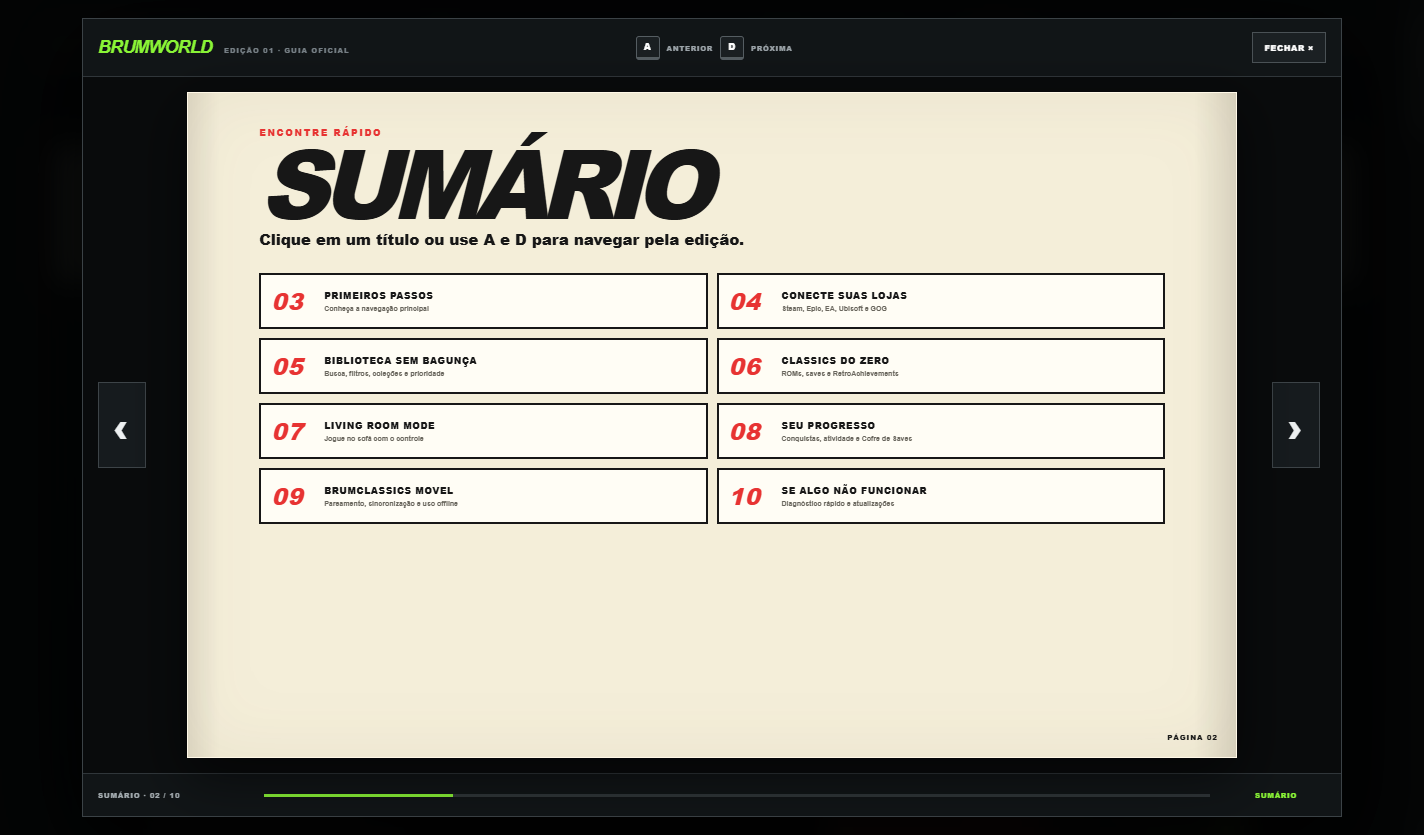
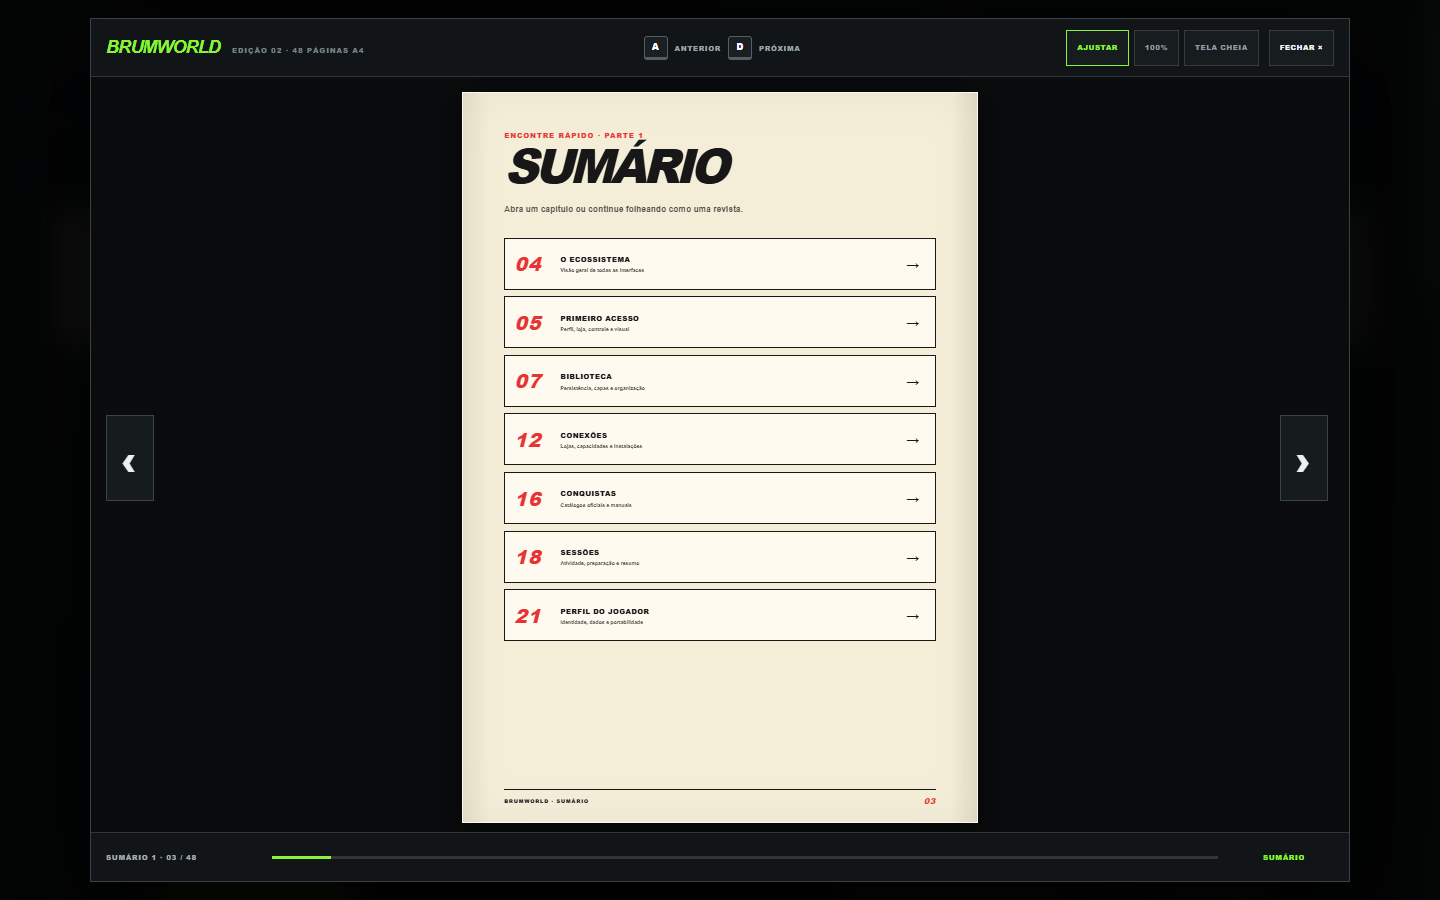
release: publish real-screen BRUMWORLD 1.74.3

diff --git a/CHANGELOG.md b/CHANGELOG.md
@@ -1,5 +1,16 @@
 # Histórico de versões
 
+## Launcher 1.74.3 — BRUMWORLD com telas reais e mais nítida
+
+- As 43 páginas de orientação da BRUMWORLD agora usam capturas verdadeiras do launcher e do aplicativo Android 0.20.0.
+- Imagens abstratas e exemplos genéricos foram removidos das matérias de guia.
+- Cada captura recebe três marcadores numerados relacionados diretamente às etapas e aos estados explicados na página.
+- Biblioteca, Conexões, conquistas, sessões, Perfil, controles, Living Room, Console no PC, sistema e demais interfaces são mostrados em seus estados reais.
+- Início móvel, biblioteca, conquistas, perfil, pareamento, CLASSICS, BRUMCOMPANION e B-CARD são apresentados com telas reais do aplicativo Android.
+- O modo Ajustar deixa de transformar a revista inteira como uma imagem rasterizada: texto e imagens são recalculados no tamanho exibido para preservar a nitidez.
+- A proporção A4, as 48 páginas, o modo 100% e a navegação por teclado, botões e sumário permanecem inalterados.
+- Android 0.20.0 e iOS 0.11.0 continuam compatíveis e não receberam alterações de código.
+
 ## Launcher 1.74.2 — BRUMWORLD em formato A4
 
 - A BRUMWORLD foi reconstruída na proporção real de uma folha A4 e ampliada de 16 para 48 páginas.

diff --git a/releases/v1.74.3/RELEASE-NOTES.md b/releases/v1.74.3/RELEASE-NOTES.md
@@ -1,0 +1,20 @@
+# BRUMCLASSICS OFICIAL 1.74.3
+
+Esta versão transforma a BRUMWORLD em um guia visual baseado nas interfaces reais do BRUMCLASSICS.
+
+## Capturas reais
+
+- Todas as 43 páginas de orientação usam imagens verdadeiras produzidas pelo launcher ou pelo aplicativo Android 0.20.0.
+- Biblioteca, Conexões, conquistas, Perfil do Jogador, controles, Living Room, Console no PC e diagnóstico aparecem como são no produto.
+- Início móvel, biblioteca, conquistas, perfil, pareamento, CLASSICS, BRUMCOMPANION e B-CARD também usam seus estados reais.
+- Ilustrações abstratas e imagens genéricas foram removidas das matérias de guia.
+
+## Guia e nitidez
+
+- Três marcadores numerados ligam a captura às instruções de cada página.
+- Legendas identificam claramente se a tela é do launcher ou do Android.
+- O modo Ajustar passa a recalcular a página na escala exibida, reduzindo a aparência embaçada de texto e imagens.
+- O modo 100% continua fiel a 794 × 1123 pixels.
+- A revista preserva as 48 páginas A4, o sumário, a barra de progresso e todos os atalhos para as telas reais.
+
+Android 0.20.0 e iOS 0.11.0 continuam compatíveis e não receberam alterações de código nesta atualização.

diff --git a/releases/v1.74.3/VALIDACAO.md b/releases/v1.74.3/VALIDACAO.md
@@ -1,0 +1,20 @@
+# Validação da versão 1.74.3
+
+- Executável: `BRUMCLASSICS OFICIAL.exe`
+- ProductVersion: `1.74.3`
+- Tamanho: `392833611` bytes
[1 lines of base64/hex data omitted]
+- Testes automatizados: `651 aprovados`, `0 falhas`
+- Verificação sintática: aprovada
+- Arquivos de origem comparados dentro do pacote: `168`
+- Páginas BRUMWORLD: `48`
+- Guias com capturas reais carregadas: `43`
+- Proporção validada: `210:297`
+- Modo Ajustar: aprovado em `1440 × 900` e `1280 × 720`
+- Modo 100%: `794 × 1123` pixels
+- Páginas com conteúdo interno cortado: nenhuma
+- Capturas verificadas: capa, sumário, Conexões, conquistas, Perfil, móvel, conquistas móveis, emulação móvel, BRUMCOMPANION, B-CARD e contracapa
+- Worker de desempenho do pacote: aprovado
+- Build: Windows portátil x64, Electron 43.4.0
+
+Os aplicativos Android 0.20.0 e iOS 0.11.0 não tiveram código ou protocolo alterado nesta versão.
